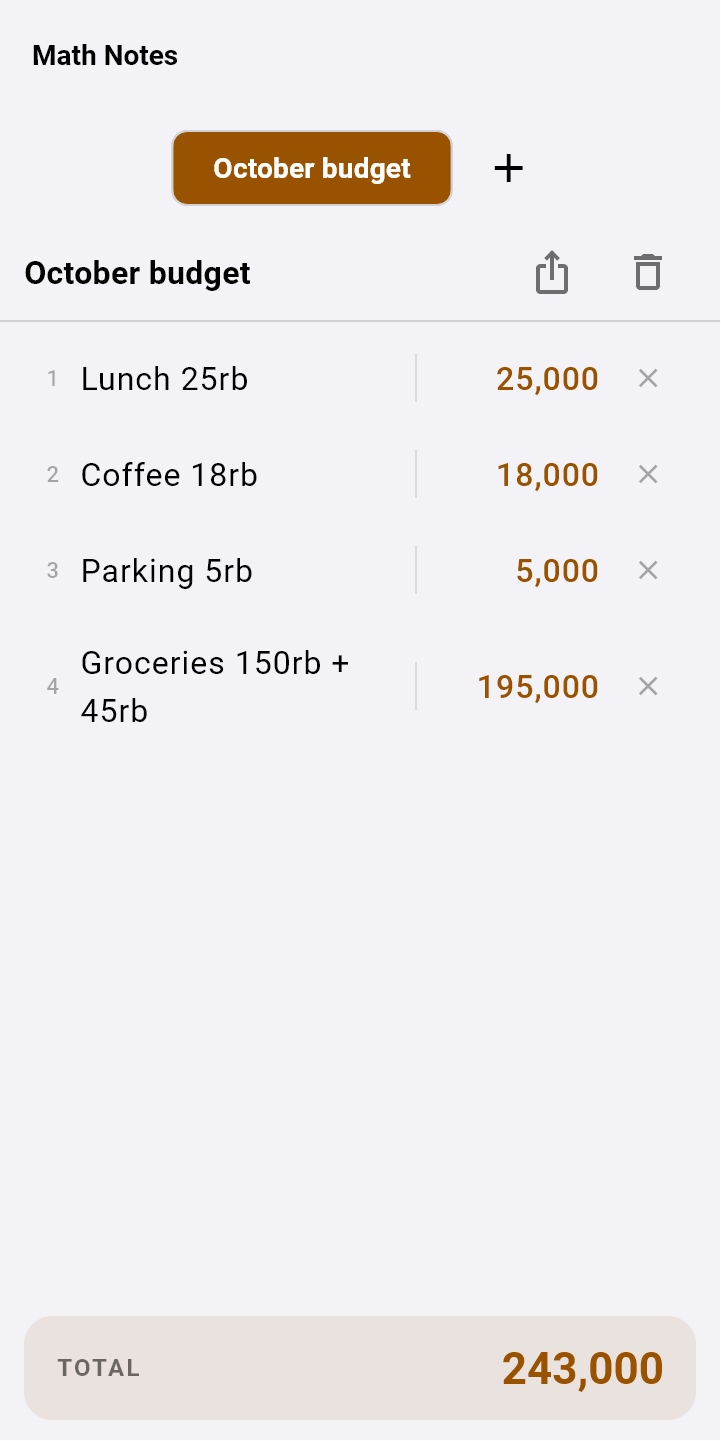
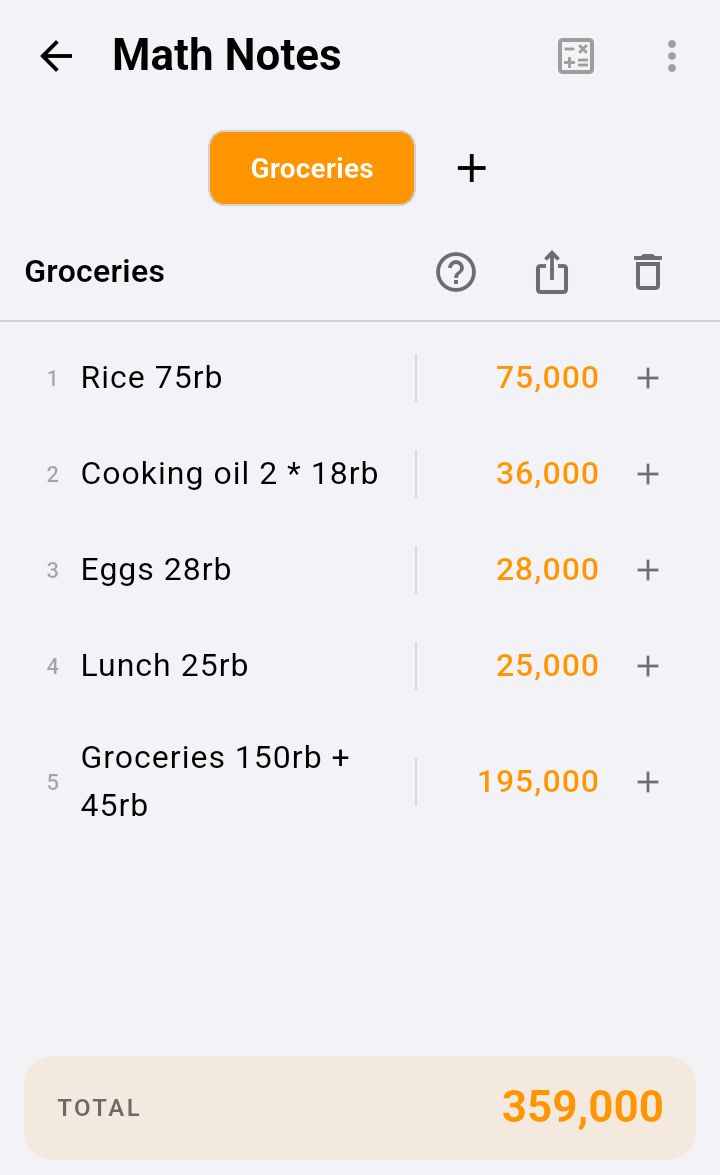
Math Notes guide: money in/out (+/- button, In/Out/Balance), Sheet -> Page, new screenshots; visitor count on guide pages

diff --git a/guide/math-notes.html b/guide/math-notes.html
@@ -22,8 +22,9 @@
   <li><a href="#referensi">Memakai hasil baris lain</a></li>
   <li><a href="#bagian">Judul, subtotal, dan rata-rata</a></li>
   <li><a href="#persen">Persen dan konversi satuan</a></li>
-  <li><a href="#total">Memahami TOTAL</a></li>
-  <li><a href="#sheet">Banyak sheet, simpan, dan ekspor</a></li>
+  <li><a href="#masuk-keluar">Pemasukan dan pengeluaran: tombol + / −</a></li>
+  <li><a href="#total">Memahami TOTAL dan BALANCE</a></li>
+  <li><a href="#halaman">Banyak halaman, simpan, dan ekspor</a></li>
   <li><a href="#contekan">Contekan singkat</a></li>
 </ol></div>
 
@@ -43,11 +44,11 @@
 <ul>
   <li><b>Boleh pakai kata.</b> <code>Lunch 25rb</code> dan <code>Groceries 150rb + 45rb</code> tetap terhitung, karena kata-kata dianggap keterangan dan diabaikan.</li>
   <li>Tekan <b>Enter</b> di keyboard untuk membuat baris baru.</li>
-  <li>Ketuk <b>×</b> di ujung kanan untuk menghapus baris.</li>
+  <li>Untuk menghapus baris, <b>tekan lama nomor baris</b> di kiri, lalu ketuk <b class="ui">Delete line</b>.</li>
   <li>Semua tersimpan otomatis, tidak perlu tombol simpan.</li>
 </ul>
 <div class="shots">
-  <figure><img src="img/notes-basic.png" alt="Contoh catatan belanja"><figcaption>Catatan belanja sederhana. TOTAL menjumlahkan semua baris.</figcaption></figure>
+  <figure><img src="img/notes-basic.png" alt="Contoh catatan belanja"><figcaption>Catatan belanja sederhana. TOTAL menjumlahkan semua baris. Tombol + di kanan dipakai untuk menandai pengeluaran (bagian 8).</figcaption></figure>
 </div>
 
 <h2 id="uang">3. Menulis uang: 50rb, 5jt, Rp</h2>
@@ -89,10 +90,10 @@
   <li>Awali baris dengan <code>#</code> untuk membuat judul bagian, misalnya <code>#&nbsp;Income</code> atau <code>#&nbsp;Pengeluaran</code>. Judul tampil tebal dan tidak dihitung.</li>
   <li>Tulis baris-baris angka di bawahnya.</li>
   <li>Tulis <code>subtotal</code> atau <code>sum</code> untuk menjumlahkan bagian itu saja (dari judul terakhir sampai baris ini). Tulis <code>average</code> untuk rata-ratanya.</li>
-  <li>Hitung sisanya dengan referensi baris, misalnya <code>Left over line4 - line8</code>.</li>
+  <li>Tandai pengeluaran dengan tombol <b class="ui">+</b> di kanan baris (lihat bagian berikutnya), maka sisanya langsung tampil di bawah sebagai <b class="ui">BALANCE</b>.</li>
 </ol>
 <div class="shots">
-  <figure><img src="img/notes-cashflow.png" alt="Contoh anggaran bulanan"><figcaption>Pemasukan, pengeluaran, dan sisa dalam satu sheet.</figcaption></figure>
+  <figure><img src="img/notes-cashflow.png" alt="Contoh anggaran bulanan"><figcaption>Pemasukan dan pengeluaran dalam satu halaman. Pengeluaran ditandai minus, jadi BALANCE langsung menjadi sisa uang.</figcaption></figure>
 </div>
 <div class="note tip"><b>"Total" juga boleh jadi label</b><code>Total belanja 50rb</code> dibaca 50.000. Kata "Total" di situ hanya keterangan. Baru dianggap perintah kalau berdiri sendiri, misalnya <code>total</code> atau <code>total * 2</code>.</div>
 
@@ -103,29 +104,58 @@
   <li><code>5 kg in lb</code>, <code>10 km to mi</code>, atau <code>2 h ke min</code> mengonversi satuan. Hasil konversi tampil abu-abu dan tidak ikut TOTAL.</li>
 </ul>
 
-<h2 id="total">8. Memahami TOTAL</h2>
-<p>TOTAL di bagian bawah menjumlahkan <b>semua baris hitungan biasa</b>. Yang tidak ikut dijumlahkan:</p>
+<h2 id="masuk-keluar">8. Pemasukan dan pengeluaran: tombol + / −</h2>
+<p>Setiap baris angka punya tombol kecil di ujung kanan. Tombol itu menunjukkan apakah baris itu uang <b>masuk</b> atau uang <b>keluar</b>.</p>
+<ol class="steps">
+  <li>Tulis barisnya seperti biasa, misalnya <code>Bensin 50rb</code>. Tombolnya bertanda <b class="ui">+</b>, artinya uang masuk.</li>
+  <li>Ketuk <b class="ui">+</b> untuk menjadikannya pengeluaran. Barisnya berubah menjadi <code>-Bensin 50rb</code>, angkanya merah, dan tombolnya menjadi <b class="ui">−</b>.</li>
+  <li>Ketuk <b class="ui">−</b> untuk mengembalikannya menjadi pemasukan.</li>
+</ol>
+<ul>
+  <li>Mengetik tanda minus sendiri juga boleh: <code>-Makan 30rb</code> sama saja.</li>
+  <li>Baris yang berisi beberapa angka dibalik semuanya: <code>Bensin 50rb + 20rb</code> menjadi <code>-(Bensin 50rb + 20rb)</code>, yaitu −70.000.</li>
+  <li>Judul, variabel, konversi, dan baris <code>subtotal</code> tidak punya tombol ini.</li>
+</ul>
+<p>Begitu ada satu pengeluaran, bagian bawah menampilkan rinciannya:</p>
+<div class="tablewrap"><table>
+  <tr><th>Di layar</th><th>Artinya</th></tr>
+  <tr><td><b class="ui">In</b></td><td>jumlah semua pemasukan</td></tr>
+  <tr><td><b class="ui">Out</b></td><td>jumlah semua pengeluaran</td></tr>
+  <tr><td><b class="ui">BALANCE</b></td><td>sisa uang: In dikurangi Out</td></tr>
+</table></div>
+<p>Contoh: <code>Gaji 5jt</code>, lalu <code>Bensin 50rb</code> dan <code>Makan 30rb</code> yang ditandai pengeluaran, menghasilkan In 5.000.000, Out 80.000, dan BALANCE 4.920.000.</p>
+<div class="shots">
+  <figure><img src="img/notes-before.png" alt="Semua baris masih dihitung pemasukan"><figcaption>Sebelum: Rent, Fuel, dan Groceries masih bertanda +, jadi ikut menambah TOTAL.</figcaption></figure>
+  <figure><img src="img/notes-in-out.png" alt="Pengeluaran ditandai minus"><figcaption>Sesudah ketuk +: pengeluaran merah, dan bawahnya menampilkan In, Out, dan BALANCE.</figcaption></figure>
+</div>
+
+<h2 id="total">9. Memahami TOTAL dan BALANCE</h2>
+<p>Kalau semua baris adalah pemasukan (tidak ada yang minus), bagian bawah hanya menampilkan <b>TOTAL</b>. Begitu ada pengeluaran, judulnya berubah menjadi <b>BALANCE</b> dan In / Out muncul di atasnya.</p>
+<p>TOTAL dan BALANCE menjumlahkan <b>semua baris hitungan biasa</b>. Yang tidak ikut dijumlahkan:</p>
 <ul>
   <li>judul <code>#</code>,</li>
   <li>baris variabel (<code>nama = …</code>),</li>
   <li>konversi satuan,</li>
   <li>baris <code>subtotal</code>, <code>sum</code>, <code>average</code>, dan <code>total</code>, supaya angkanya tidak terhitung dua kali.</li>
 </ul>
-<div class="note warn"><b>Untuk anggaran, lihat baris "sisa", bukan TOTAL</b>Kalau satu sheet berisi pemasukan <i>dan</i> pengeluaran, TOTAL menjumlahkan keduanya, jadi angkanya bukan sisa uangmu. Pakai baris seperti <code>line4 - line8</code> untuk sisa, atau tulis pengeluaran dengan tanda minus (<code>Rent -1.5jt</code>) supaya TOTAL langsung menjadi sisa.</div>
+<div class="note warn"><b>Pengeluaran harus ditandai</b>Baris tanpa tanda minus dihitung sebagai pemasukan. Kalau <code>Bensin 50rb</code> lupa ditandai, angka itu <i>menambah</i> BALANCE. Periksa: pengeluaran selalu merah.</div>
 
-<h2 id="sheet">9. Banyak sheet, simpan, dan ekspor</h2>
+<h2 id="halaman">10. Banyak halaman, simpan, dan ekspor</h2>
 <ul>
-  <li>Ketuk <b class="ui">+</b> di samping nama sheet untuk membuat sheet baru, misalnya satu sheet per bulan. Ketuk nama sheet untuk pindah.</li>
-  <li>Ketuk judul sheet (di bawah tombol-tombol sheet) untuk mengganti namanya.</li>
-  <li>Ikon <b class="ui">bagikan</b> menyimpan atau mengirim sheet sebagai TXT, CSV (untuk Excel), PDF, atau DOCX.</li>
-  <li>Ikon <b class="ui">tempat sampah</b> menghapus sheet yang sedang dibuka.</li>
+  <li>Ketuk <b class="ui">+</b> di samping tombol <b class="ui">Page 1</b> untuk membuat halaman baru, misalnya satu halaman per bulan. Ketuk nama halaman untuk pindah.</li>
+  <li>Ketuk judul halaman (di bawah tombol-tombol halaman) untuk mengganti namanya.</li>
+  <li>Ikon <b class="ui">bagikan</b> menyimpan atau mengirim halaman sebagai TXT, CSV (untuk Excel), PDF, atau DOCX. Kalau ada pengeluaran, ekspornya ikut memuat baris In, Out, dan Balance.</li>
+  <li>Ikon <b class="ui">tempat sampah</b> menghapus halaman yang sedang dibuka.</li>
 </ul>
+<div class="note tip"><b>Dulu namanya "Sheet"</b>Halaman yang dulu bernama <b>Sheet 1</b>, <b>Sheet 2</b>, dan seterusnya otomatis berganti nama menjadi <b>Page 1</b>, <b>Page 2</b>. Nama yang kamu buat sendiri tidak diubah.</div>
 <div class="note tip"><b>Contoh dari Scientific Pro</b>Penyelesaian soal dari Scientific Pro yang kamu simpan muncul di bawah TOTAL sebagai <b class="ui">Worked examples</b>. Contoh-contoh itu tidak mengubah TOTAL.</div>
 
-<h2 id="contekan">10. Contekan singkat</h2>
+<h2 id="contekan">11. Contekan singkat</h2>
 <div class="tablewrap"><table>
   <tr><th>Ingin…</th><th>Tulis</th></tr>
   <tr><td>Menjumlah belanja</td><td><code>Beras 75rb</code> · <code>Minyak 2 * 18rb</code></td></tr>
+  <tr><td>Mencatat pengeluaran</td><td>ketuk <b class="ui">+</b> di kanan baris, atau tulis <code>-Bensin 50rb</code></td></tr>
+  <tr><td>Menghapus baris</td><td>tekan lama nomor baris → <b class="ui">Delete line</b></td></tr>
   <tr><td>Menyimpan angka</td><td><code>harga = 25rb</code></td></tr>
   <tr><td>Memakai angka itu</td><td><code>harga * 12</code></td></tr>
   <tr><td>Membuat judul bagian</td><td><code># Pengeluaran</code></td></tr>
@@ -136,7 +166,8 @@
   <tr><td>Konversi satuan</td><td><code>5 kg in lb</code></td></tr>
 </table></div>
 
-<footer><a href="index.html">← Semua panduan</a></footer>
+<footer><a href="index.html">← Semua panduan</a><p id="visitors" class="visitors" hidden></p></footer>
 </div>
+<script src="counter.js" defer></script>
 </body>
 </html>

diff --git a/guide/counter.js b/guide/counter.js
@@ -1,0 +1,23 @@
+// "N visitor" under each guide page. GitHub Pages keeps no statistics, so
+// the count lives in Abacus (abacus.jasoncameron.dev, free, no account),
+// one counter per page. A browser is counted once per page: after its first
+// visit it only reads the number. Nothing is shown if the service is down.
+(function () {
+  var el = document.getElementById('visitors');
+  if (!el || !window.fetch) return;
+  var page = location.pathname.split('/').pop().replace(/\.html$/, '') || 'index';
+  var flag = 'cn-guide-seen-' + page;
+  var seen = false;
+  try { seen = localStorage.getItem(flag) === '1'; } catch (e) {}
+  var url = 'https://abacus.jasoncameron.dev/' + (seen ? 'get' : 'hit') +
+    '/calculator-note-guide/' + page;
+  fetch(url)
+    .then(function (r) { return r.ok ? r.json() : null; })
+    .then(function (d) {
+      if (!d || typeof d.value !== 'number') return;
+      try { localStorage.setItem(flag, '1'); } catch (e) {}
+      el.textContent = d.value.toLocaleString('id-ID') + ' visitor';
+      el.hidden = false;
+    })
+    .catch(function () {});
+})();

diff --git a/guide/index.html b/guide/index.html
@@ -18,7 +18,7 @@
   <a class="card" href="math-notes.html">
     <div class="ico">📝</div>
     <h3>Math Notes</h3>
-    <p>Tulis hitungan per baris seperti di buku catatan. Bisa memakai 50rb, 5jt, Rp, variabel, dan subtotal.</p>
+    <p>Tulis hitungan per baris seperti di buku catatan. Bisa memakai 50rb, 5jt, variabel, subtotal, dan memisahkan pemasukan dari pengeluaran.</p>
   </a>
   <a class="card" href="modes.html">
     <div class="ico">🧮</div>
@@ -50,7 +50,9 @@
 
 <footer>
   Calculator Note · <a href="../privacy_policy.html">Privacy Policy</a> · <a href="../terms_of_service.html">Terms of Service</a>
+  <p id="visitors" class="visitors" hidden></p>
 </footer>
 </div>
+<script src="counter.js" defer></script>
 </body>
 </html>

diff --git a/guide/security.html b/guide/security.html
@@ -83,7 +83,8 @@
 <h2 id="password">7. Mengganti password</h2>
 <p>Buka <b class="ui">Encrypted Note</b>, buka menu samping, lalu pilih <b class="ui">Change password</b>. Kamu perlu memasukkan password lama. Menu ini hanya muncul kalau brankas dibuka dengan password yang benar.</p>
 
-<footer><a href="index.html">← Semua panduan</a> · <a href="vault.html">← Brankas rahasia</a></footer>
+<footer><a href="index.html">← Semua panduan</a> · <a href="vault.html">← Brankas rahasia</a><p id="visitors" class="visitors" hidden></p></footer>
 </div>
+<script src="counter.js" defer></script>
 </body>
 </html>

diff --git a/guide/vault.html b/guide/vault.html
@@ -111,7 +111,8 @@
 </ol>
 <div class="note tip"><b>Bisa telat beberapa menit</b>Android kadang menunda notifikasi untuk menghemat baterai, jadi pengingat bisa datang beberapa menit lebih lambat.</div>
 
-<footer><a href="index.html">← Semua panduan</a> · <a href="security.html">Keamanan &amp; backup →</a></footer>
+<footer><a href="index.html">← Semua panduan</a> · <a href="security.html">Keamanan &amp; backup →</a><p id="visitors" class="visitors" hidden></p></footer>
 </div>
+<script src="counter.js" defer></script>
 </body>
 </html>

diff --git a/guide/tools.html b/guide/tools.html
@@ -60,7 +60,8 @@
 
 <div class="note tip"><b>Jawaban dalam bentuk pecahan</b>Di tab <b class="ui">Settings</b>, nyalakan <b class="ui">Answers as fractions</b> supaya kalkulator biasa menampilkan 1/3, bukan 0,333….</div>
 
-<footer><a href="index.html">← Semua panduan</a></footer>
+<footer><a href="index.html">← Semua panduan</a><p id="visitors" class="visitors" hidden></p></footer>
 </div>
+<script src="counter.js" defer></script>
 </body>
 </html>

diff --git a/guide/style.css b/guide/style.css
@@ -93,3 +93,4 @@ th, td { text-align: left; padding: 8px 10px; border-bottom: 1px solid var(--lin
 th { color: var(--muted); font-weight: 600; font-size: 0.9em; }
 td code { white-space: nowrap; }
 footer { color: var(--muted); font-size: 0.85em; margin-top: 3em; border-top: 1px solid var(--line); padding-top: 1em; }
+.visitors { margin: 0.6em 0 0; font-variant-numeric: tabular-nums; }

diff --git a/guide/modes.html b/guide/modes.html
@@ -107,7 +107,8 @@
   <li><b>Light / Dark / System</b>: tema terang, gelap, atau mengikuti pengaturan HP.</li>
 </ul>
 
-<footer><a href="index.html">← Semua panduan</a></footer>
+<footer><a href="index.html">← Semua panduan</a><p id="visitors" class="visitors" hidden></p></footer>
 </div>
+<script src="counter.js" defer></script>
 </body>
 </html>
